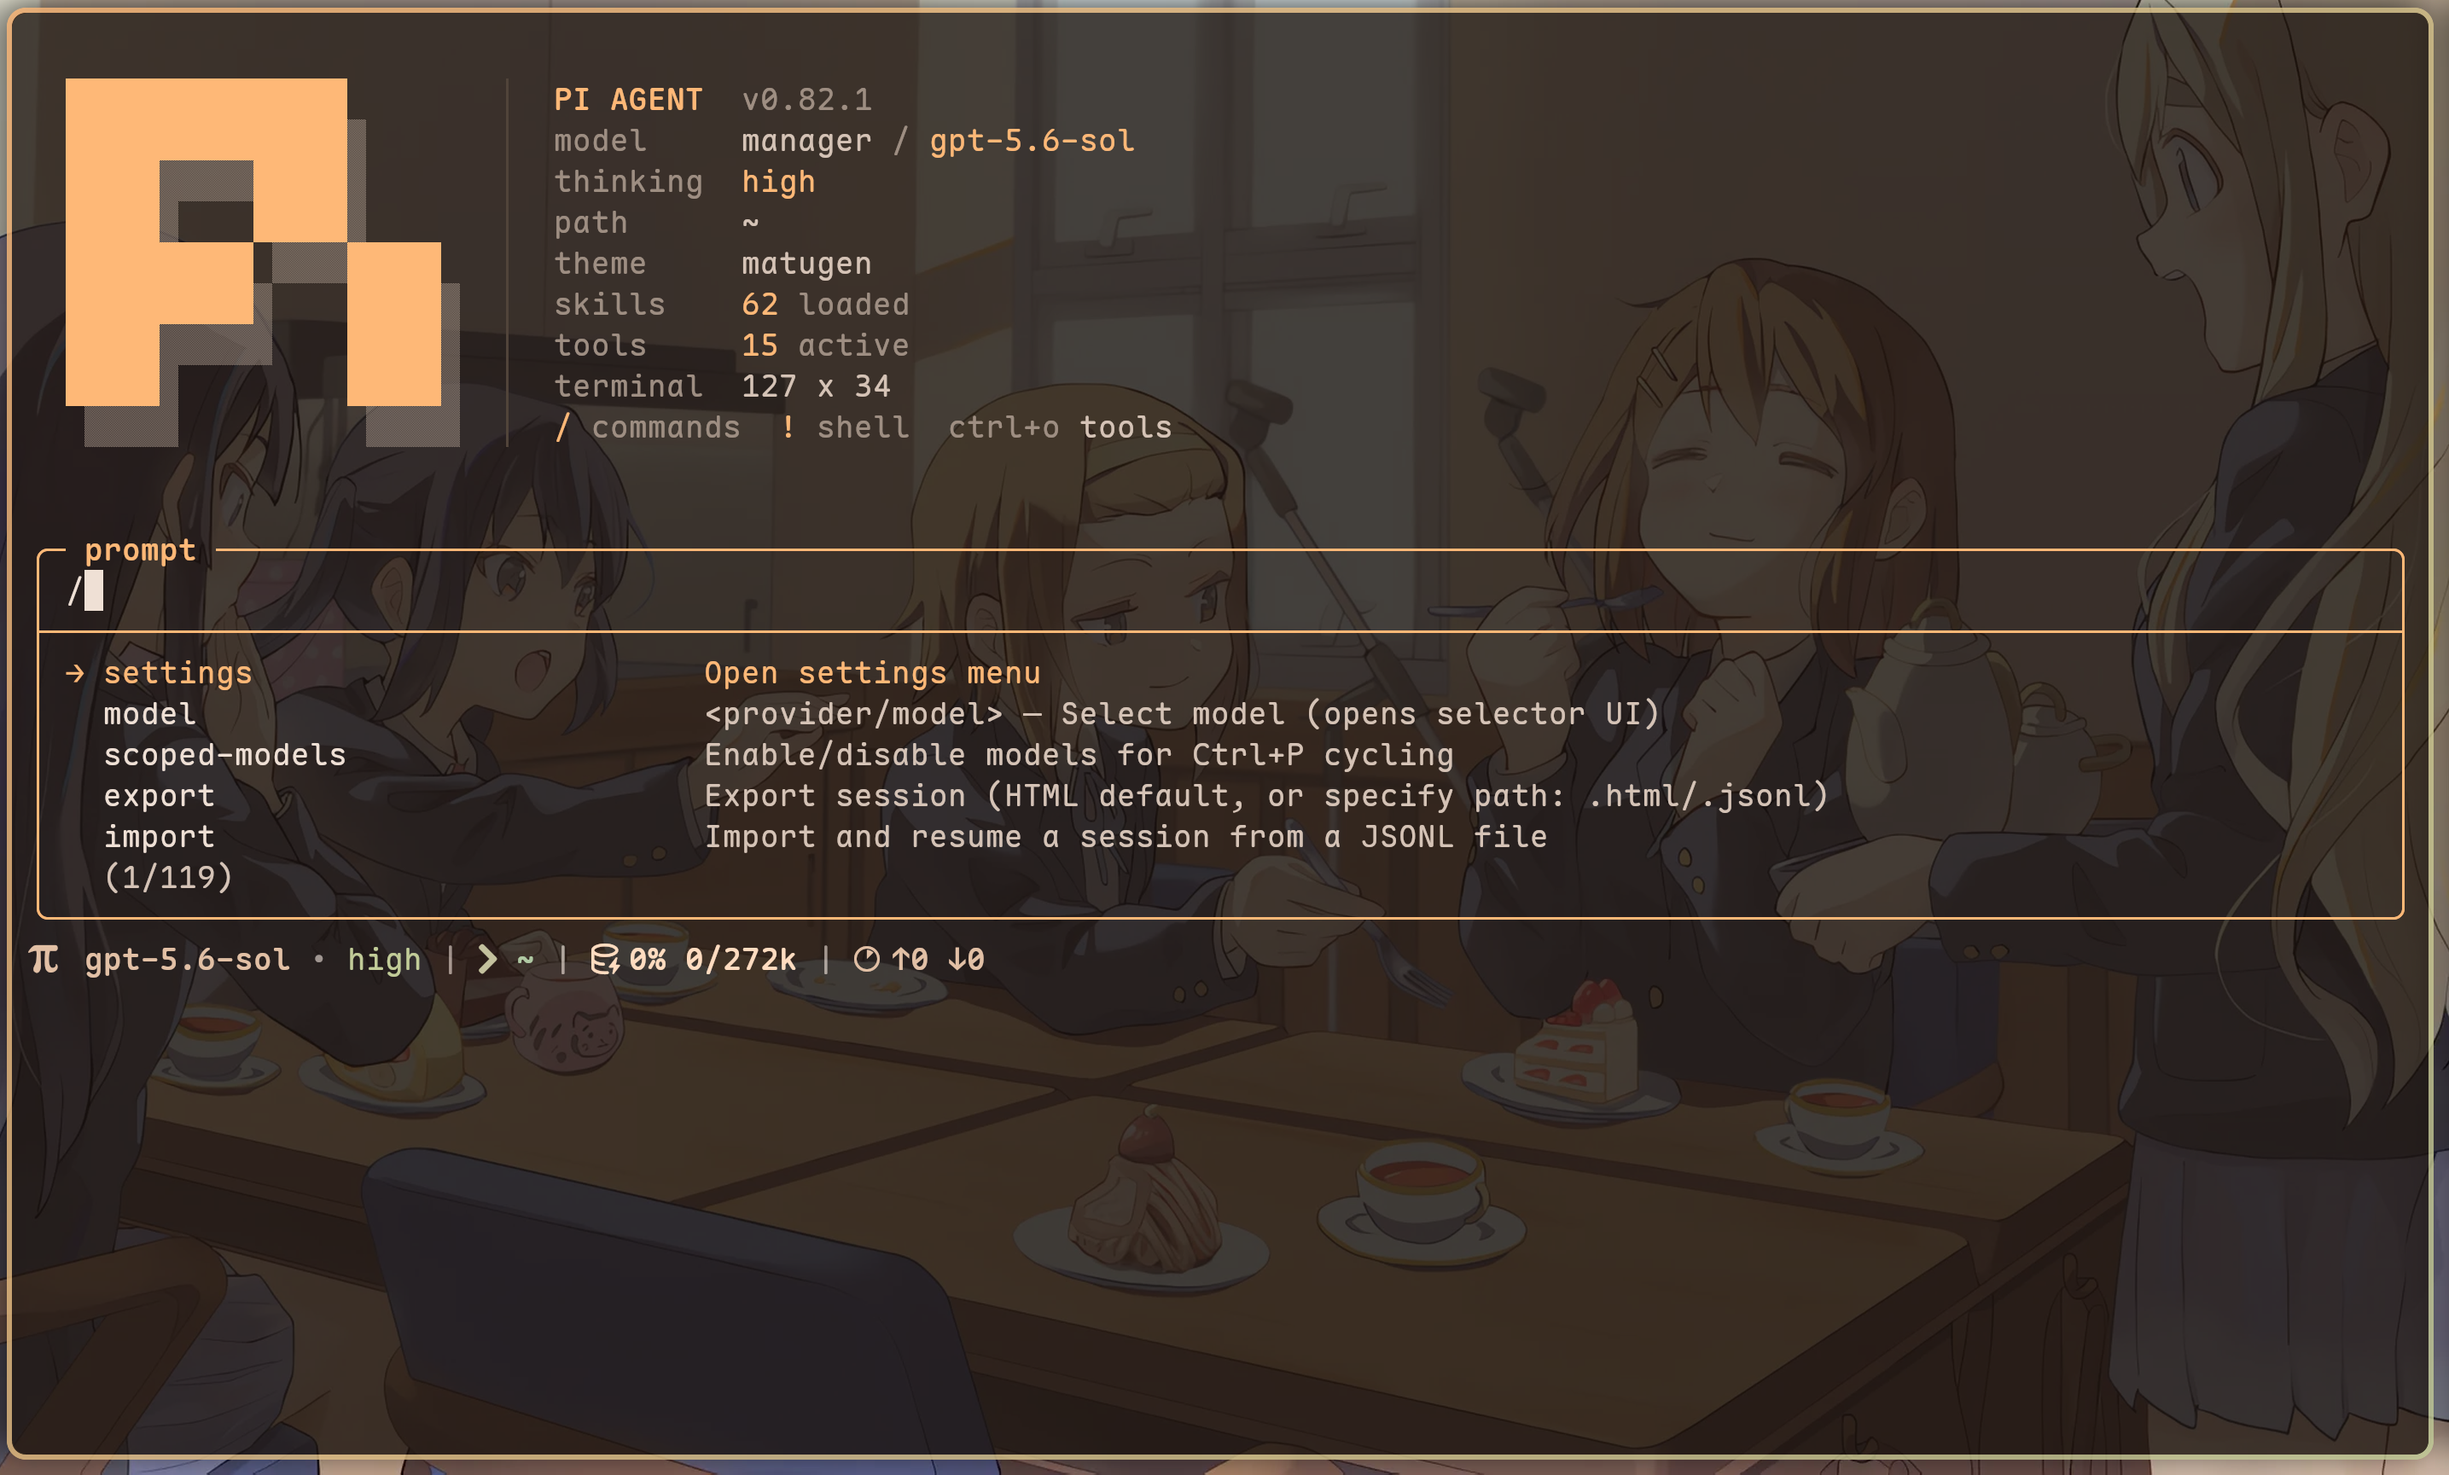
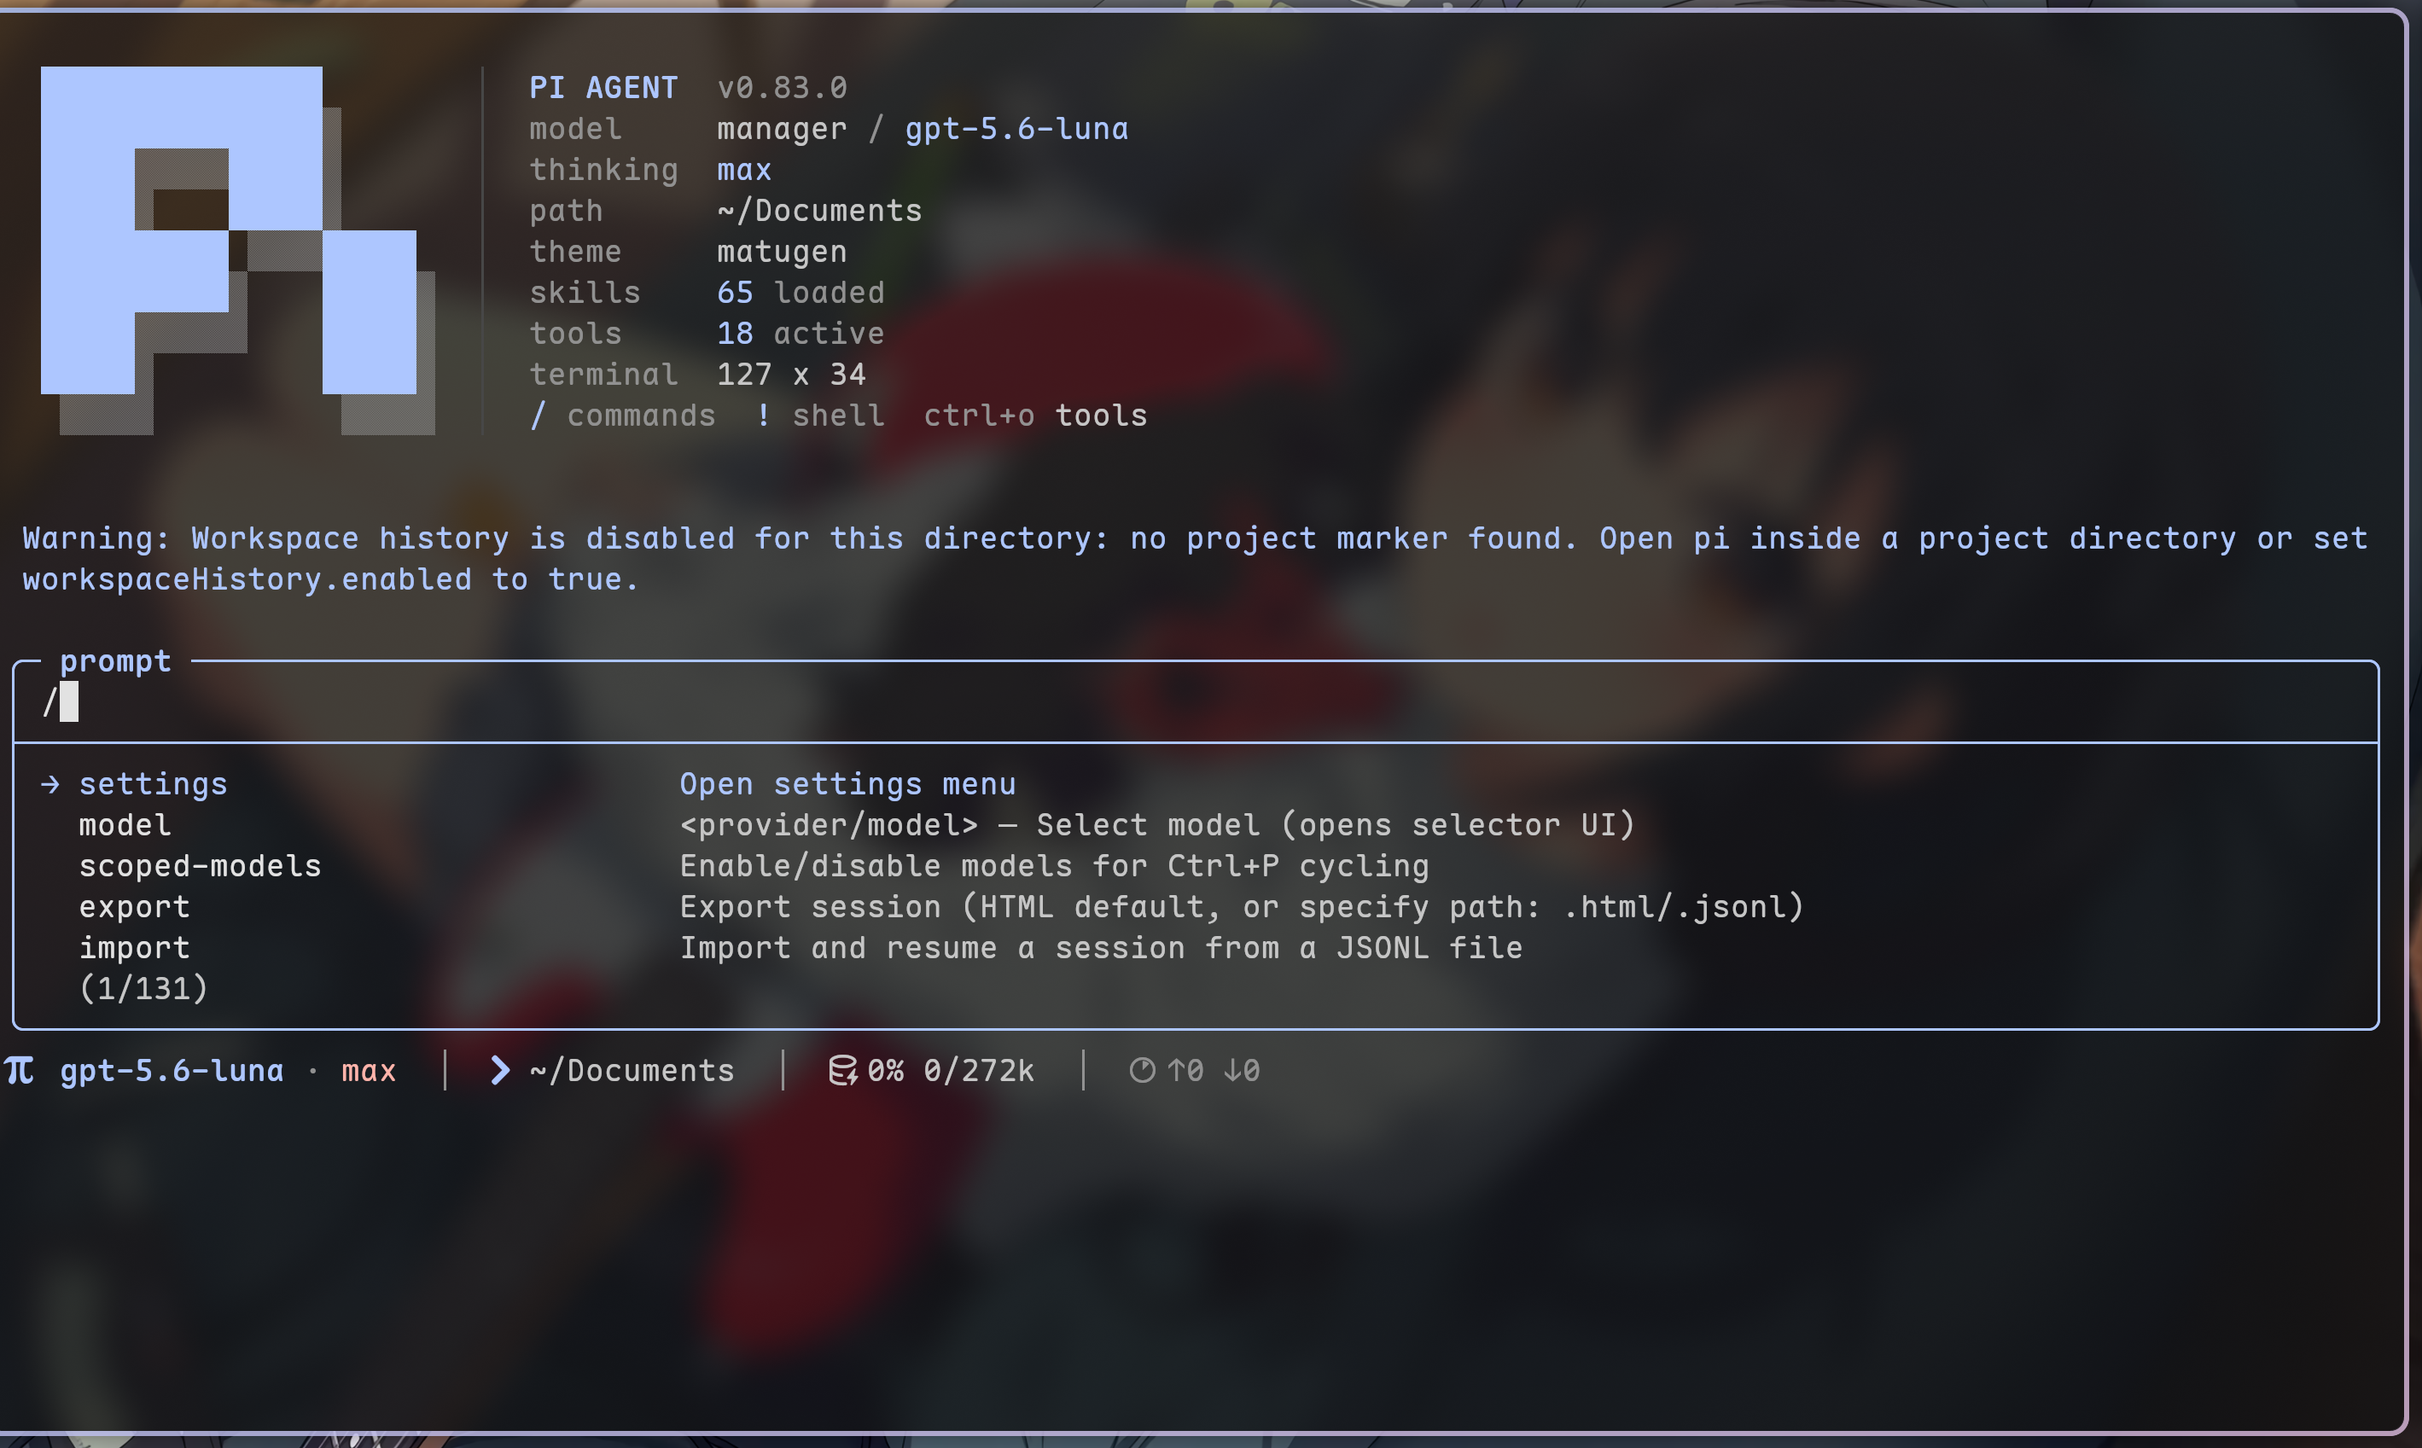
docs: refresh Pi TUI preview screenshots

diff --git a/README.md b/README.md
@@ -8,17 +8,16 @@ A portable backup of extensions, skills, themes, and public configuration for th
 > This repository contains public configuration only. API keys, tokens, passwords, private keys, provider registries, sessions, and local runtime data are intentionally excluded.
 
 ## Preview
-
-| Workspace and themed TUI | Hash-anchored editing | Tool result panels |
-| --- | --- | --- |
-| ![Pi workspace with themed header and footer](docs/images/pi-tui-overview.png) | ![Pi replace tool result](docs/images/pi-tui-replace.png) | ![Pi parallel tool calls and result panels](docs/images/pi-tui-tools.png) |
+| Themed Pi workspace | Tool rails | Structured results | Session layout |
+| --- | --- | --- | --- |
+| ![Themed Pi workspace](docs/images/pi-tui-overview.png) | ![Pi tool rails](docs/images/pi-tui-replace.png) | ![Structured Pi results](docs/images/pi-tui-tools.png) | ![Pi session layout](docs/images/pi-tui-session.png) |
 
 ## Repository contents
 
 | Path | Contents | How to restore |
 | --- | --- | --- |
 | `install.sh`, `install.ps1`, `install.mjs` | Cross-platform bootstrap and configuration installer | Run the entry point for your operating system |
-| `extensions/` | 8 installable local packages and 2 standalone extensions | Install packages with `pi install`; copy standalone files |
+| `extensions/` | 7 installable local packages and 2 standalone extensions | Install packages with `pi install`; copy standalone files |
 | `skills/` | 58 `SKILL.md` definitions, including nested collections | Sync to `~/.pi/agent/skills/` |
 | `config/` | Public Pi settings, system guidance, extension state, and the external package manifest | Review, then copy or merge individual files |
 | `themes/` | 2 Matugen themes | Copy to `~/.pi/agent/themes/` |

diff --git a/README.zh-CN.md b/README.zh-CN.md
@@ -9,16 +9,16 @@
 
 ## 界面预览
 
-| 工作区与主题化 TUI | 哈希锚点编辑 | 工具结果面板 |
-| --- | --- | --- |
-| ![带主题 header 和 footer 的 Pi 工作区](docs/images/pi-tui-overview.png) | ![Pi replace 工具执行结果](docs/images/pi-tui-replace.png) | ![Pi 并行工具调用和结果面板](docs/images/pi-tui-tools.png) |
+| 主题化 Pi 工作区 | 工具 rail | 结构化结果 | 会话布局 |
+| --- | --- | --- | --- |
+| ![主题化 Pi 工作区](docs/images/pi-tui-overview.png) | ![Pi 工具 rail](docs/images/pi-tui-replace.png) | ![Pi 结构化结果](docs/images/pi-tui-tools.png) | ![Pi 会话布局](docs/images/pi-tui-session.png) |
 
 ## 仓库内容
 
 | 路径 | 内容 | 恢复方式 |
 | --- | --- | --- |
 | `install.sh`、`install.ps1`、`install.mjs` | 跨平台环境引导和配置安装器 | 运行对应操作系统的入口脚本 |
-| `extensions/` | 8 个可安装的本地 package 和 2 个独立扩展 | 使用 `pi install` 安装 package；直接复制独立扩展 |
+| `extensions/` | 7 个可安装的本地 package 和 2 个独立扩展 | 使用 `pi install` 安装 package；直接复制独立扩展 |
 | `skills/` | 58 个 `SKILL.md` 定义，包含嵌套技能集合 | 同步到 `~/.pi/agent/skills/` |
 | `config/` | Pi 公开设置、系统规则、扩展状态和外部 package 清单 | 检查后按需复制或合并 |
 | `themes/` | 2 个 Matugen 主题 | 复制到 `~/.pi/agent/themes/` |
